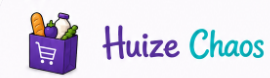
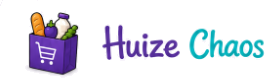
Huize Chaos V1.1.4 - volledige basisstijl

diff --git a/style.css b/style.css
@@ -1,1 +1,10 @@
 :root{--purple:#957AC1;--purple-dark:#7353A5;--lav:#E9E2F4;--pale:#F5F1FA;--teal:#25B9C4;--text:#2D2D37;--line:#E3E3E8}*{box-sizing:border-box}html,body{margin:0;min-height:100%;font-family:system-ui,-apple-system,Segoe UI,Roboto,sans-serif;color:var(--text);background:linear-gradient(180deg,#f7f3fb 0,#fff 42%)}.home{max-width:720px;margin:auto;padding:24px 18px 42px}.hero{display:flex;align-items:center;gap:16px;margin:6px 0 28px}.hero-logo{width:96px;height:96px;border-radius:24px;box-shadow:0 8px 22px rgba(87,62,110,.14)}.hero-copy h1{margin:0;font-family:"Segoe Print","Comic Sans MS",cursive;font-size:36px;line-height:1}.huize{color:var(--purple-dark)}.chaos{color:var(--teal)}.hero-copy p{margin:8px 0 0;color:#6e6875}.module-grid{display:grid;gap:14px}.module-card{display:grid;grid-template-columns:58px 1fr auto;align-items:center;gap:13px;background:#fff;border:1px solid var(--line);border-radius:20px;padding:15px;text-decoration:none;color:inherit;min-height:98px;box-shadow:0 4px 15px rgba(72,54,85,.05)}.module-card.available{border:2px solid #cfc2e4}.module-card.available:active{transform:scale(.99)}.module-icon,.placeholder-icon{width:54px;height:54px;border-radius:16px;object-fit:contain;background:var(--pale)}.placeholder-icon{display:grid;place-items:center;font-size:28px}.module-card strong{display:block;font-size:17px}.module-card small{display:block;margin-top:5px;color:#75707b;line-height:1.35}.module-card .go{font-size:34px;color:var(--purple)}.module-card.future{opacity:.55;grid-template-columns:58px 1fr}footer{text-align:center;margin-top:28px;color:#99929d;font-size:12px}@media(max-width:430px){.home{padding:18px 14px 34px}.hero-logo{width:82px;height:82px;border-radius:20px}.hero-copy h1{font-size:30px}.hero-copy p{font-size:14px}.module-card{padding:13px;min-height:90px}.module-card strong{font-size:16px}}
+/* V1.1.3 - exact Huize Chaos woordmerk op startpagina */
+.hero{display:flex;flex-direction:column;align-items:flex-start;gap:8px}
+.home-wordmark{width:min(360px,92vw);height:auto;display:block}
+.hero p{margin:0 0 8px 4px;color:#6d6875;font-size:16px}
+
+/* V1.1.4 - volledige Huize Chaos basisstijl */
+.hero{align-items:center;text-align:center}
+.home-full-logo{display:block;width:min(430px,94vw);height:auto;margin:0 auto}
+.home-wordmark{display:block;width:min(245px,65vw);height:auto;margin:4px auto 8px}

diff --git a/boodschappen/index.html b/boodschappen/index.html
@@ -4,17 +4,18 @@
   <meta charset="utf-8">
   <meta name="viewport" content="width=device-width,initial-scale=1,viewport-fit=cover">
   <title>Boodschappen</title>
-  <link rel="stylesheet" href="style.css?v=1.1.2">
+  <link rel="stylesheet" href="style.css?v=1.1.4">
 </head>
 <body>
   <main class="app">
     <header class="fixed-head">
     <div class="top hc-module-top">
-      <a class="hc-brand hc-brand-image" href="../" aria-label="Terug naar Huize Chaos">
-        <img src="assets/huize-chaos-header.png" alt="Huize Chaos">
+      <a class="hc-brand hc-brand-combo" href="../" aria-label="Terug naar Huize Chaos">
+        <img class="hc-shopping-icon" src="assets/shopping-icon.png" alt="">
+        <img class="hc-wordmark-image" src="assets/huize-chaos-wordmark.png" alt="Huize Chaos">
       </a>
       <span id="title" class="sr-only">Boodschappen</span>
-      <div class="top-actions"><span class="version">V1.1.2</span><button class="icon" aria-label="Instellingen">⚙</button></div>
+      <div class="top-actions"><span class="version">V1.1.4</span><button class="icon" aria-label="Instellingen">⚙</button></div>
     </div>
 
     <nav class="tabs">
@@ -147,9 +148,9 @@
     </form>
   </div>
 
-  <script src="js/app.js?v=1.1.2"></script>
-  <script src="js/shopping.js?v=1.1.2"></script>
-  <script src="js/stock.js?v=1.1.2"></script>
-  <script src="js/hutsel.js?v=1.1.2"></script>
+  <script src="js/app.js?v=1.1.4"></script>
+  <script src="js/shopping.js?v=1.1.4"></script>
+  <script src="js/stock.js?v=1.1.4"></script>
+  <script src="js/hutsel.js?v=1.1.4"></script>
 </body>
 </html>

diff --git a/boodschappen/style.css b/boodschappen/style.css
@@ -165,3 +165,12 @@ html, body { background:#F5F1FA !important; }
 .hc-brand-image{display:flex;align-items:center;text-decoration:none;min-width:0}
 .hc-brand-image img{width:auto!important;height:58px!important;max-width:min(300px,72vw);object-fit:contain;object-position:left center;background:transparent}
 @media(max-width:430px){.hc-brand-image img{height:50px!important;max-width:70vw}}
+
+/* V1.1.4 - boodschappenicoon + echt woordmerk */
+.hc-brand-combo{display:flex;align-items:center;gap:8px;text-decoration:none;min-width:0}
+.hc-brand-combo .hc-shopping-icon{width:50px!important;height:50px!important;object-fit:contain;background:transparent}
+.hc-brand-combo .hc-wordmark-image{width:auto!important;height:39px!important;max-width:190px;object-fit:contain;background:transparent}
+@media(max-width:430px){
+ .hc-brand-combo .hc-shopping-icon{width:45px!important;height:45px!important}
+ .hc-brand-combo .hc-wordmark-image{height:35px!important;max-width:165px}
+}

diff --git a/service-worker.js b/service-worker.js
@@ -1,4 +1,4 @@
-const CACHE='huize-chaos-v1-1-2';
+const CACHE='huize-chaos-v1-1-4';
 const ASSETS=["./", "./index.html", "./style.css?v=1.1", "./manifest.webmanifest", "./icons/icon-192.png", "./icons/icon-512.png", "./boodschappen/", "./boodschappen/index.html", "./boodschappen/style.css?v=1.1", "./boodschappen/js/app.js?v=1.1", "./boodschappen/js/shopping.js?v=1.1", "./boodschappen/js/stock.js?v=1.1", "./boodschappen/js/hutsel.js?v=1.1", "./boodschappen/assets/shopping-icon.png"];
 self.addEventListener('install',e=>{e.waitUntil(caches.open(CACHE).then(c=>c.addAll(ASSETS)));self.skipWaiting();});
 self.addEventListener('activate',e=>{e.waitUntil(caches.keys().then(keys=>Promise.all(keys.filter(k=>k!==CACHE).map(k=>caches.delete(k)))));self.clients.claim();});

diff --git a/index.html b/index.html
@@ -13,12 +13,9 @@
 <body>
   <main class="home">
     <header class="hero">
-      <img src="icons/icon-192.png" class="hero-logo" alt="Huize Chaos">
-      <div class="hero-copy">
-        <h1><span class="huize">Huize</span> <span class="chaos">Chaos</span></h1>
-        <p>Een beetje orde in de chaos.</p>
-      </div>
-    </header>
+    <img src="assets/huize-chaos-volledig.png" class="home-full-logo" alt="Huize Chaos">
+    <img src="assets/huize-chaos-wordmark.png" class="home-wordmark" alt="Huize Chaos">
+  </header>
 
     <section class="module-grid" aria-label="Onderdelen">
       <a class="module-card available" href="boodschappen/">
